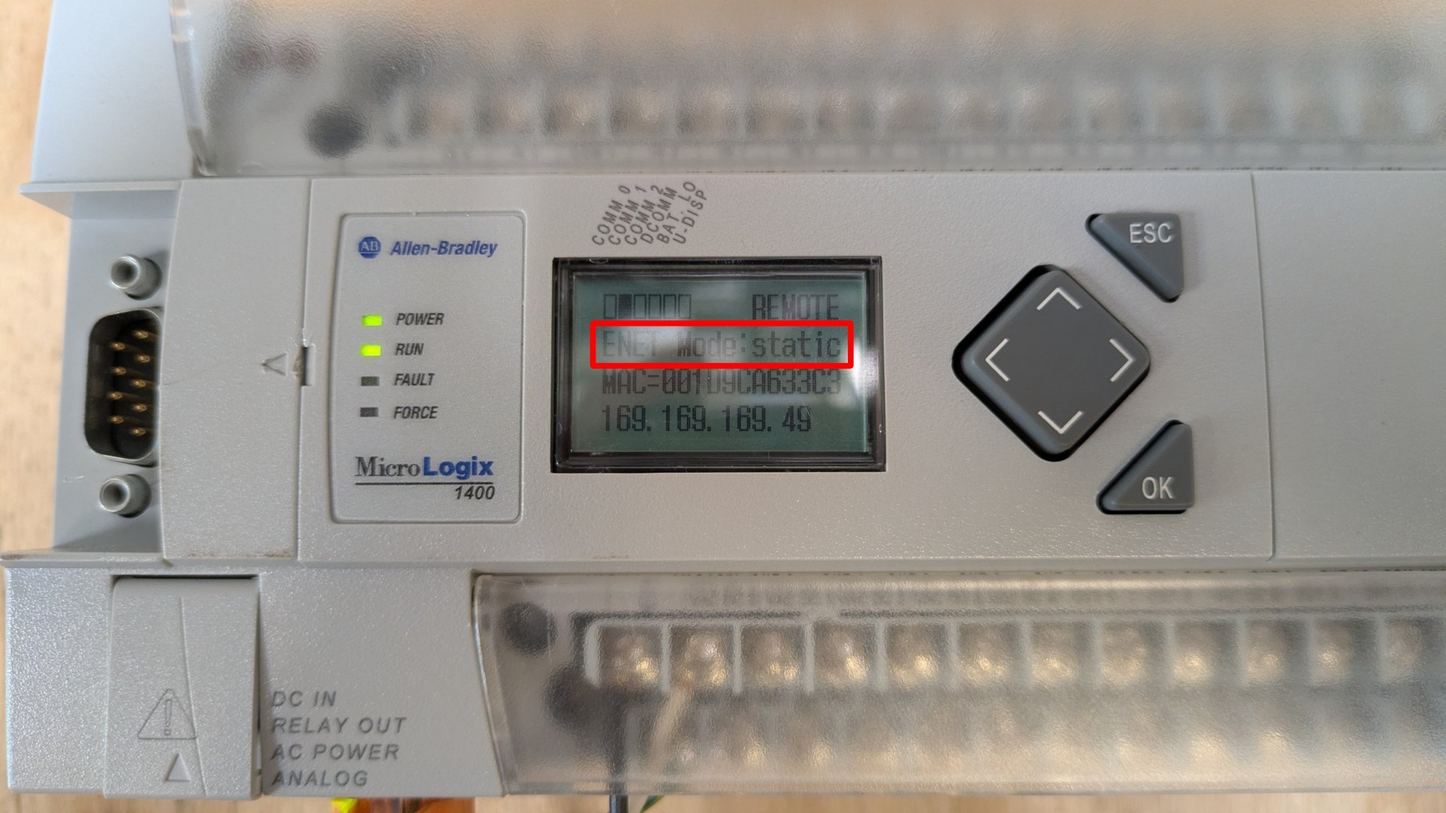
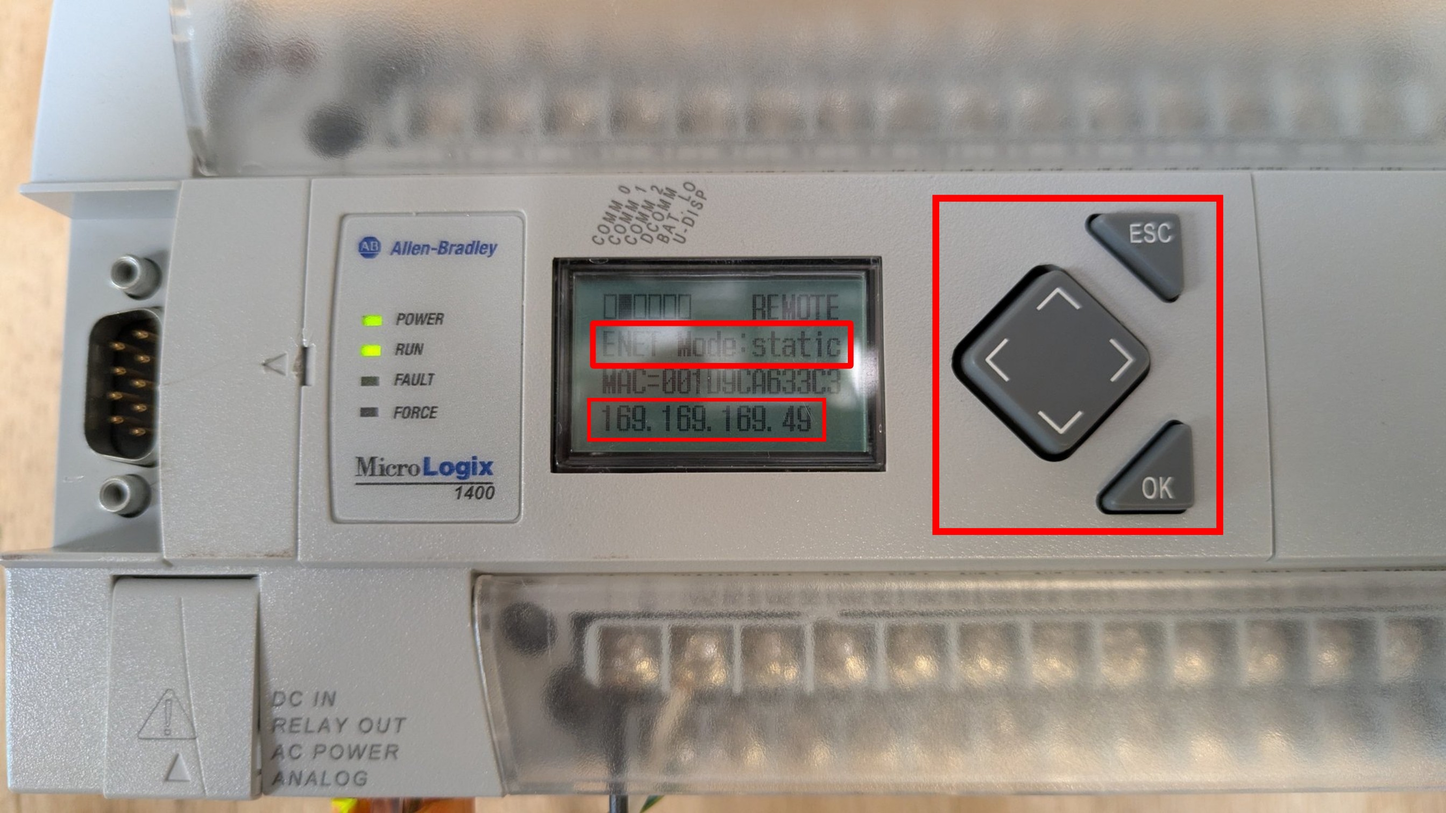
edit images

diff --git a/5-Fluid-Power/Trainer-Fluid-Power/Micrologix-PLC-IP-Config.md b/5-Fluid-Power/Trainer-Fluid-Power/Micrologix-PLC-IP-Config.md
@@ -1,17 +1,29 @@
 # MICROLOGIX IP CONFIG
 
+## RSLinx DRIVER
+- Ethernet/IP > manually enter the IP you need
 ![MLX-IP-Config](Trainer-FP-Images/MLX-IP-Config-0.jpg)
 
+## REMOTE Mode
 ![MLX-IP-Config](Trainer-FP-Images/MLX-IP-Config-1.jpg)
 
+## DCOMM Disabled
 ![MLX-IP-Config](Trainer-FP-Images/MLX-IP-Config-2.jpg)
+
+## ADVANCED SETTINGS
+- Set the Ethernet Mode to STATIC
+- Manually enter the IP address
 
 ![MLX-IP-Config](Trainer-FP-Images/MLX-IP-Config-3.jpg)
 
+## LEAVE BLANK
 ![MLX-IP-Config](Trainer-FP-Images/MLX-IP-Config-4.jpg)
 
+## LEAVE BLANK
 ![MLX-IP-Config](Trainer-FP-Images/MLX-IP-Config-5.jpg)
 
+## LEAVE BLANK
 ![MLX-IP-Config](Trainer-FP-Images/MLX-IP-Config-6.jpg)
 
+## ADD THE SUBNET MASK ADDRESS
 ![MLX-IP-Config](Trainer-FP-Images/MLX-IP-Config-7.jpg)
